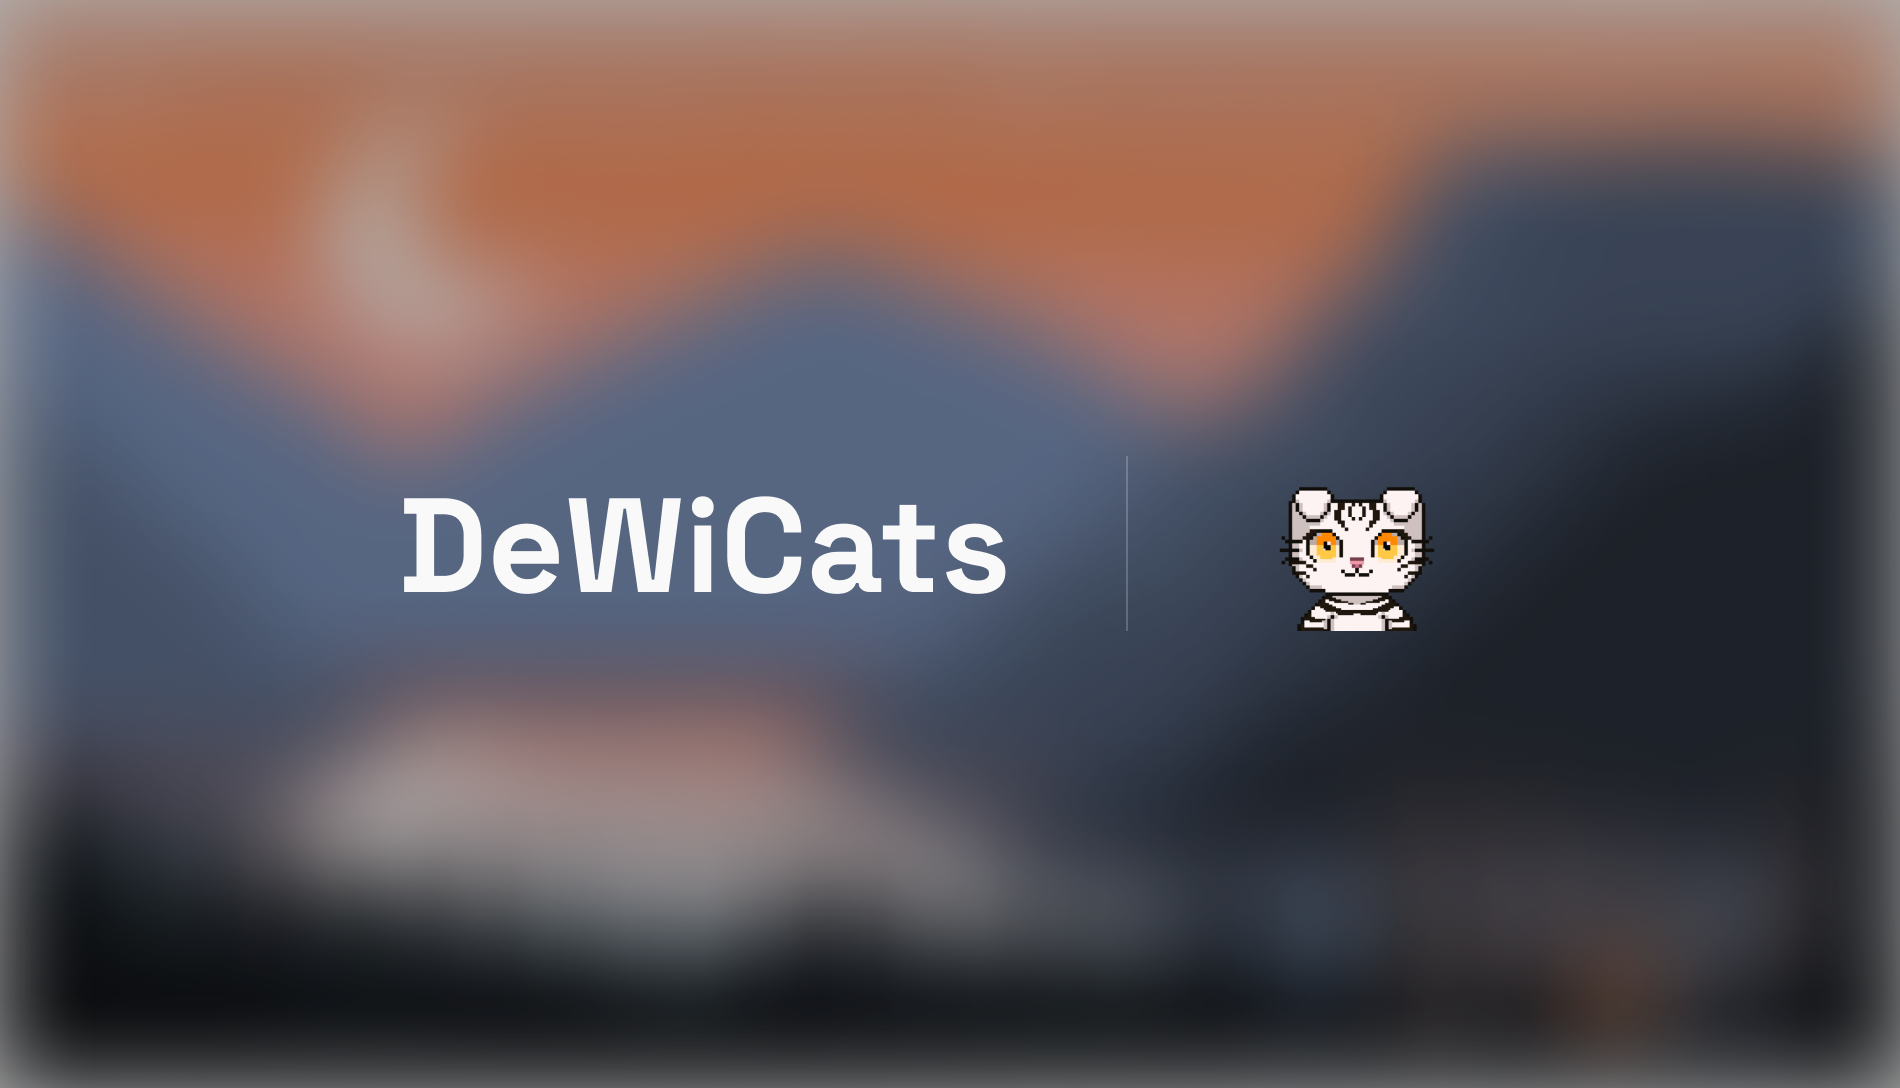
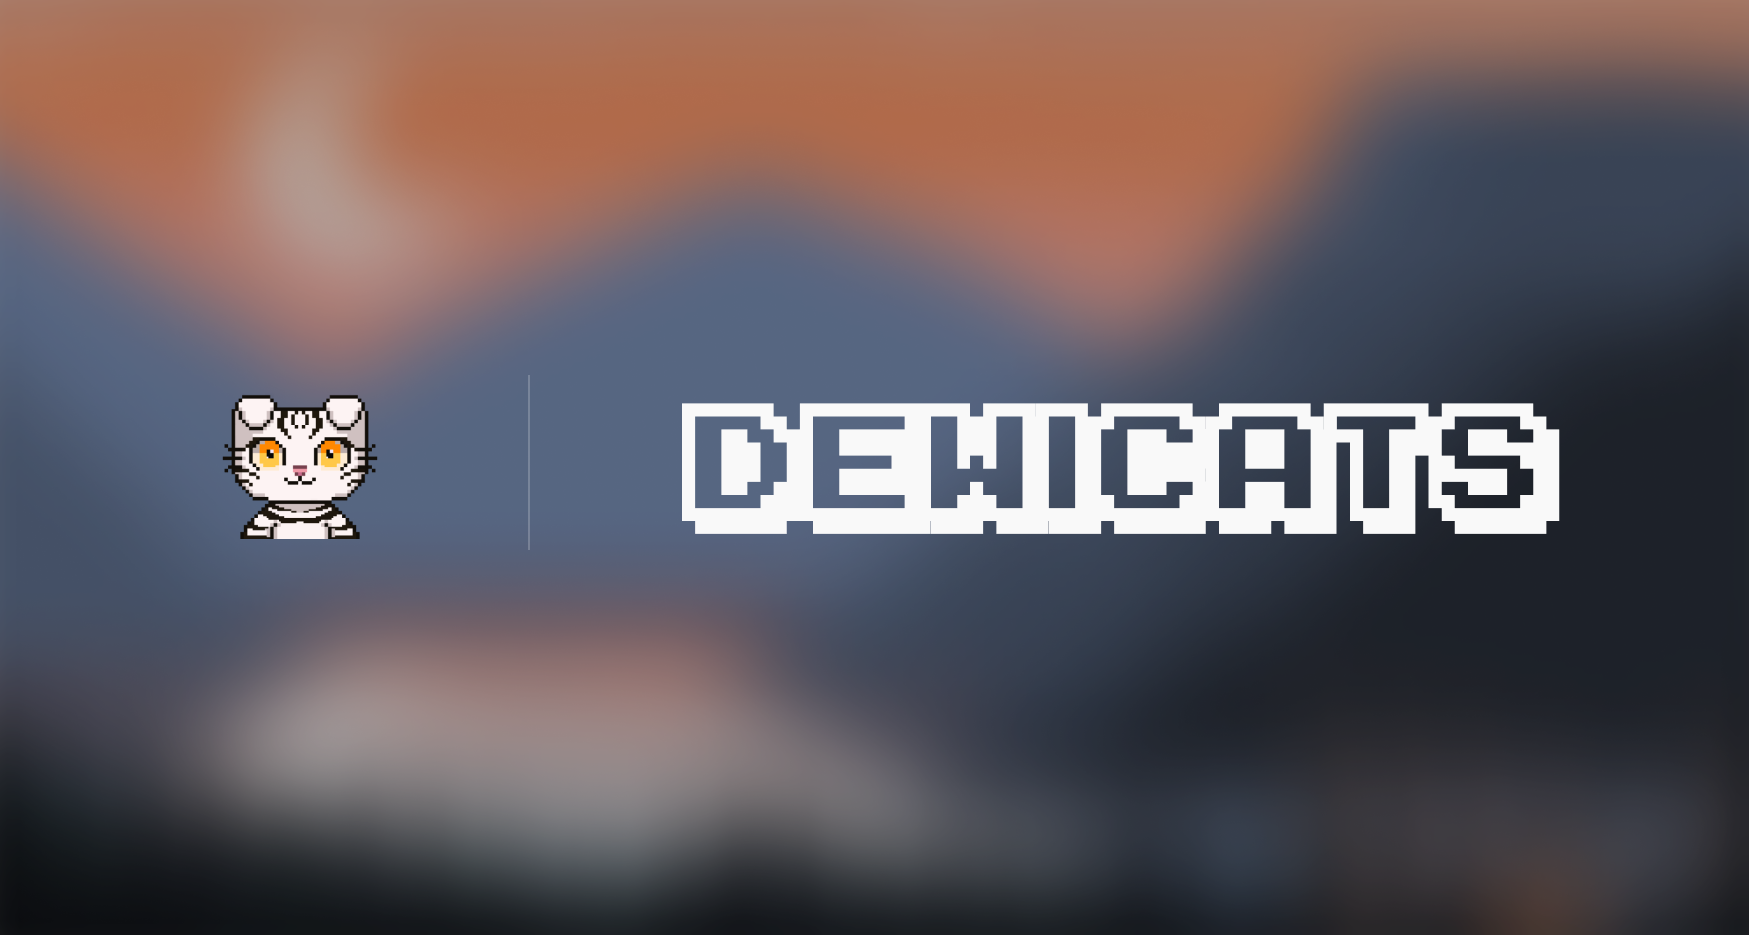
GITBOOK-2: change request with no subject merged in GitBook

diff --git a/README.md b/README.md
@@ -1,6 +1,6 @@
 ---
 description: DeWiCats Docs
-cover: .gitbook/assets/dewi-header (2).png
+cover: .gitbook/assets/dewi-header (3).png
 coverY: 0
 ---
 
